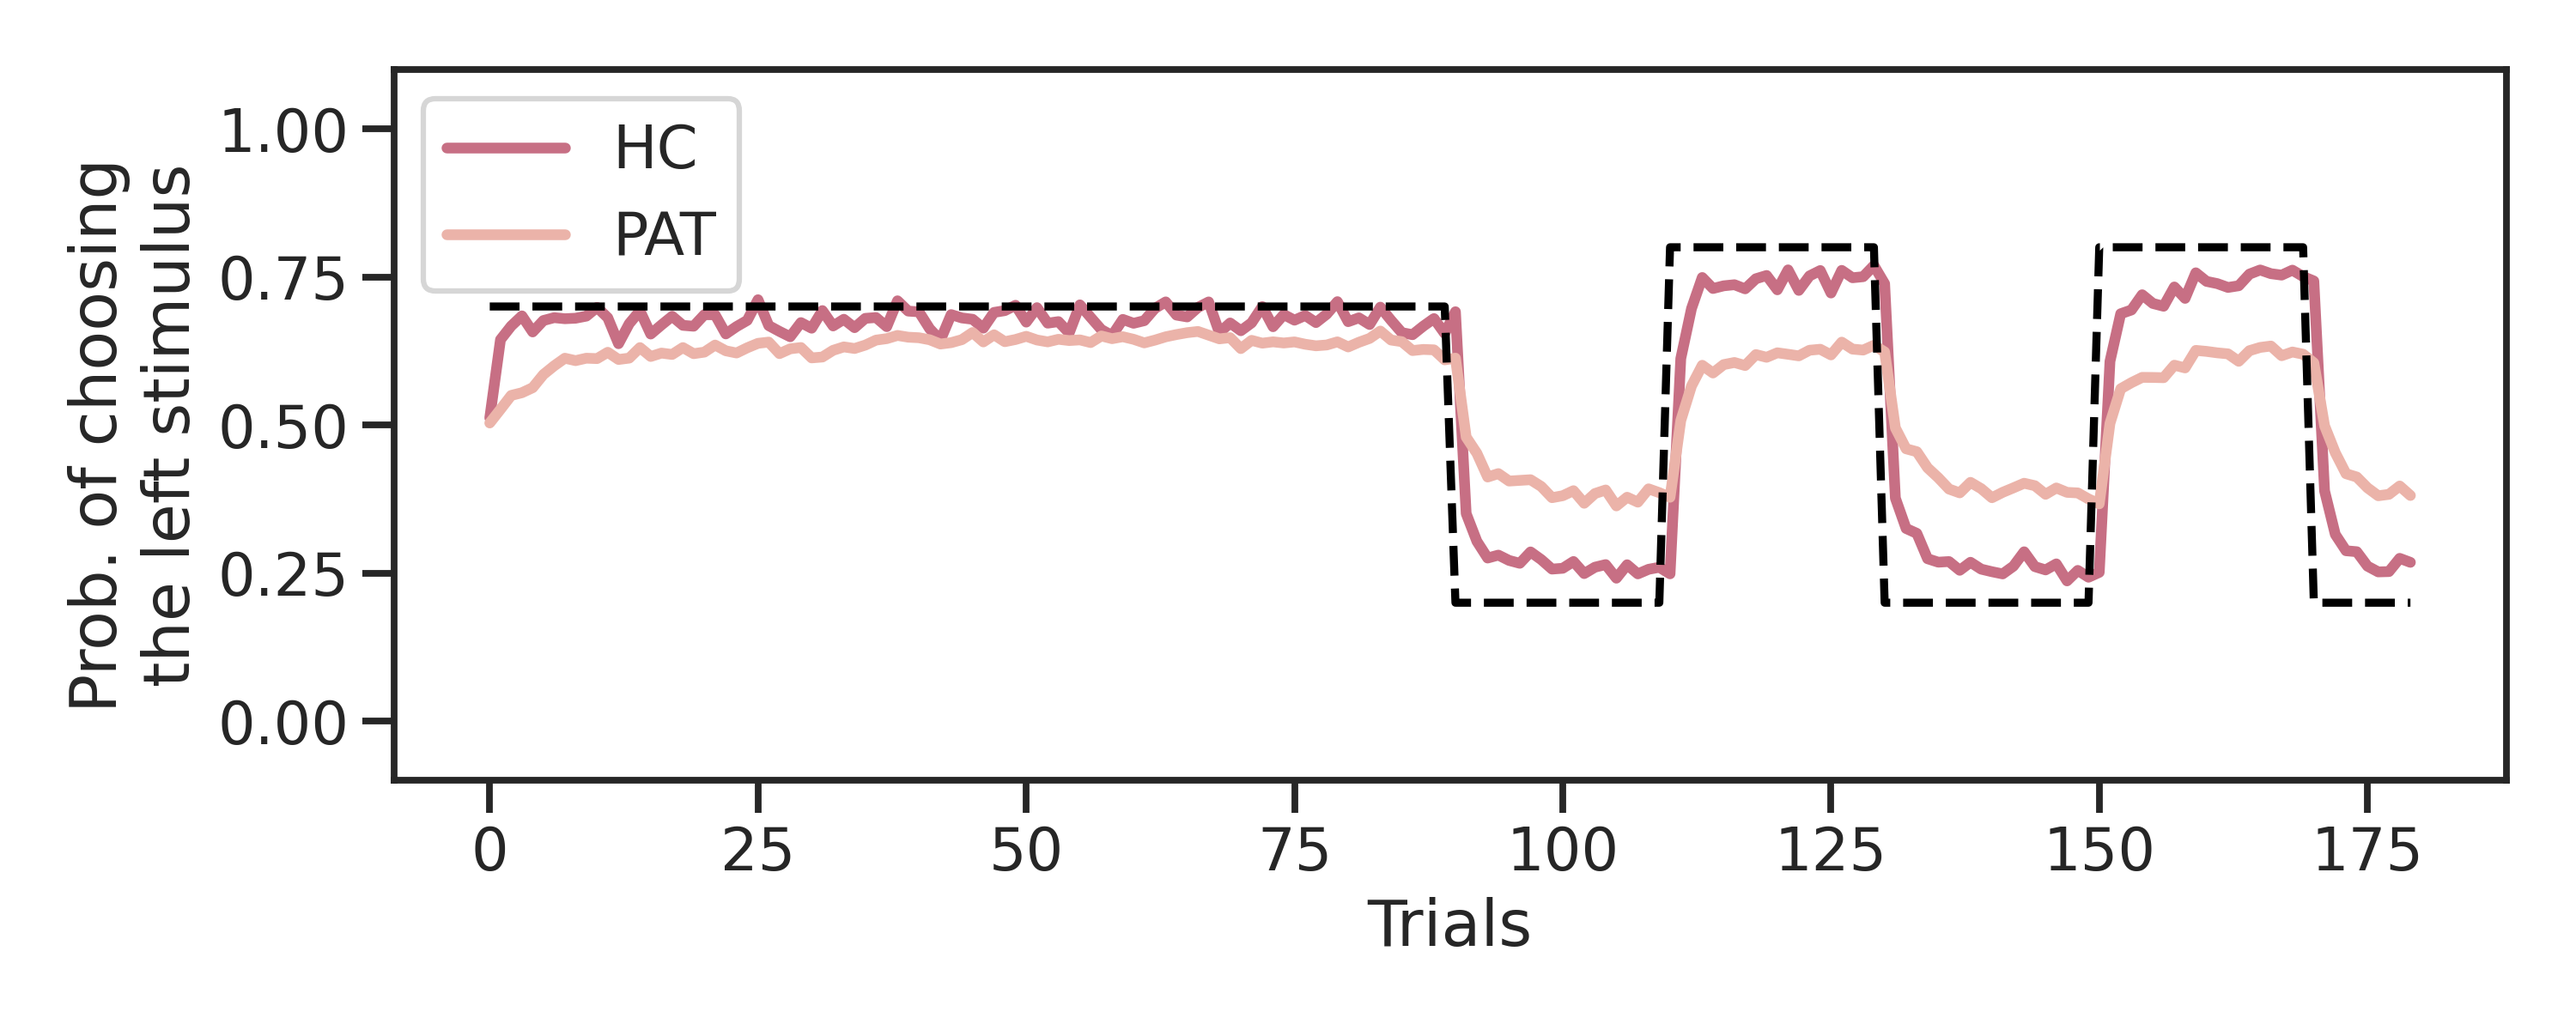
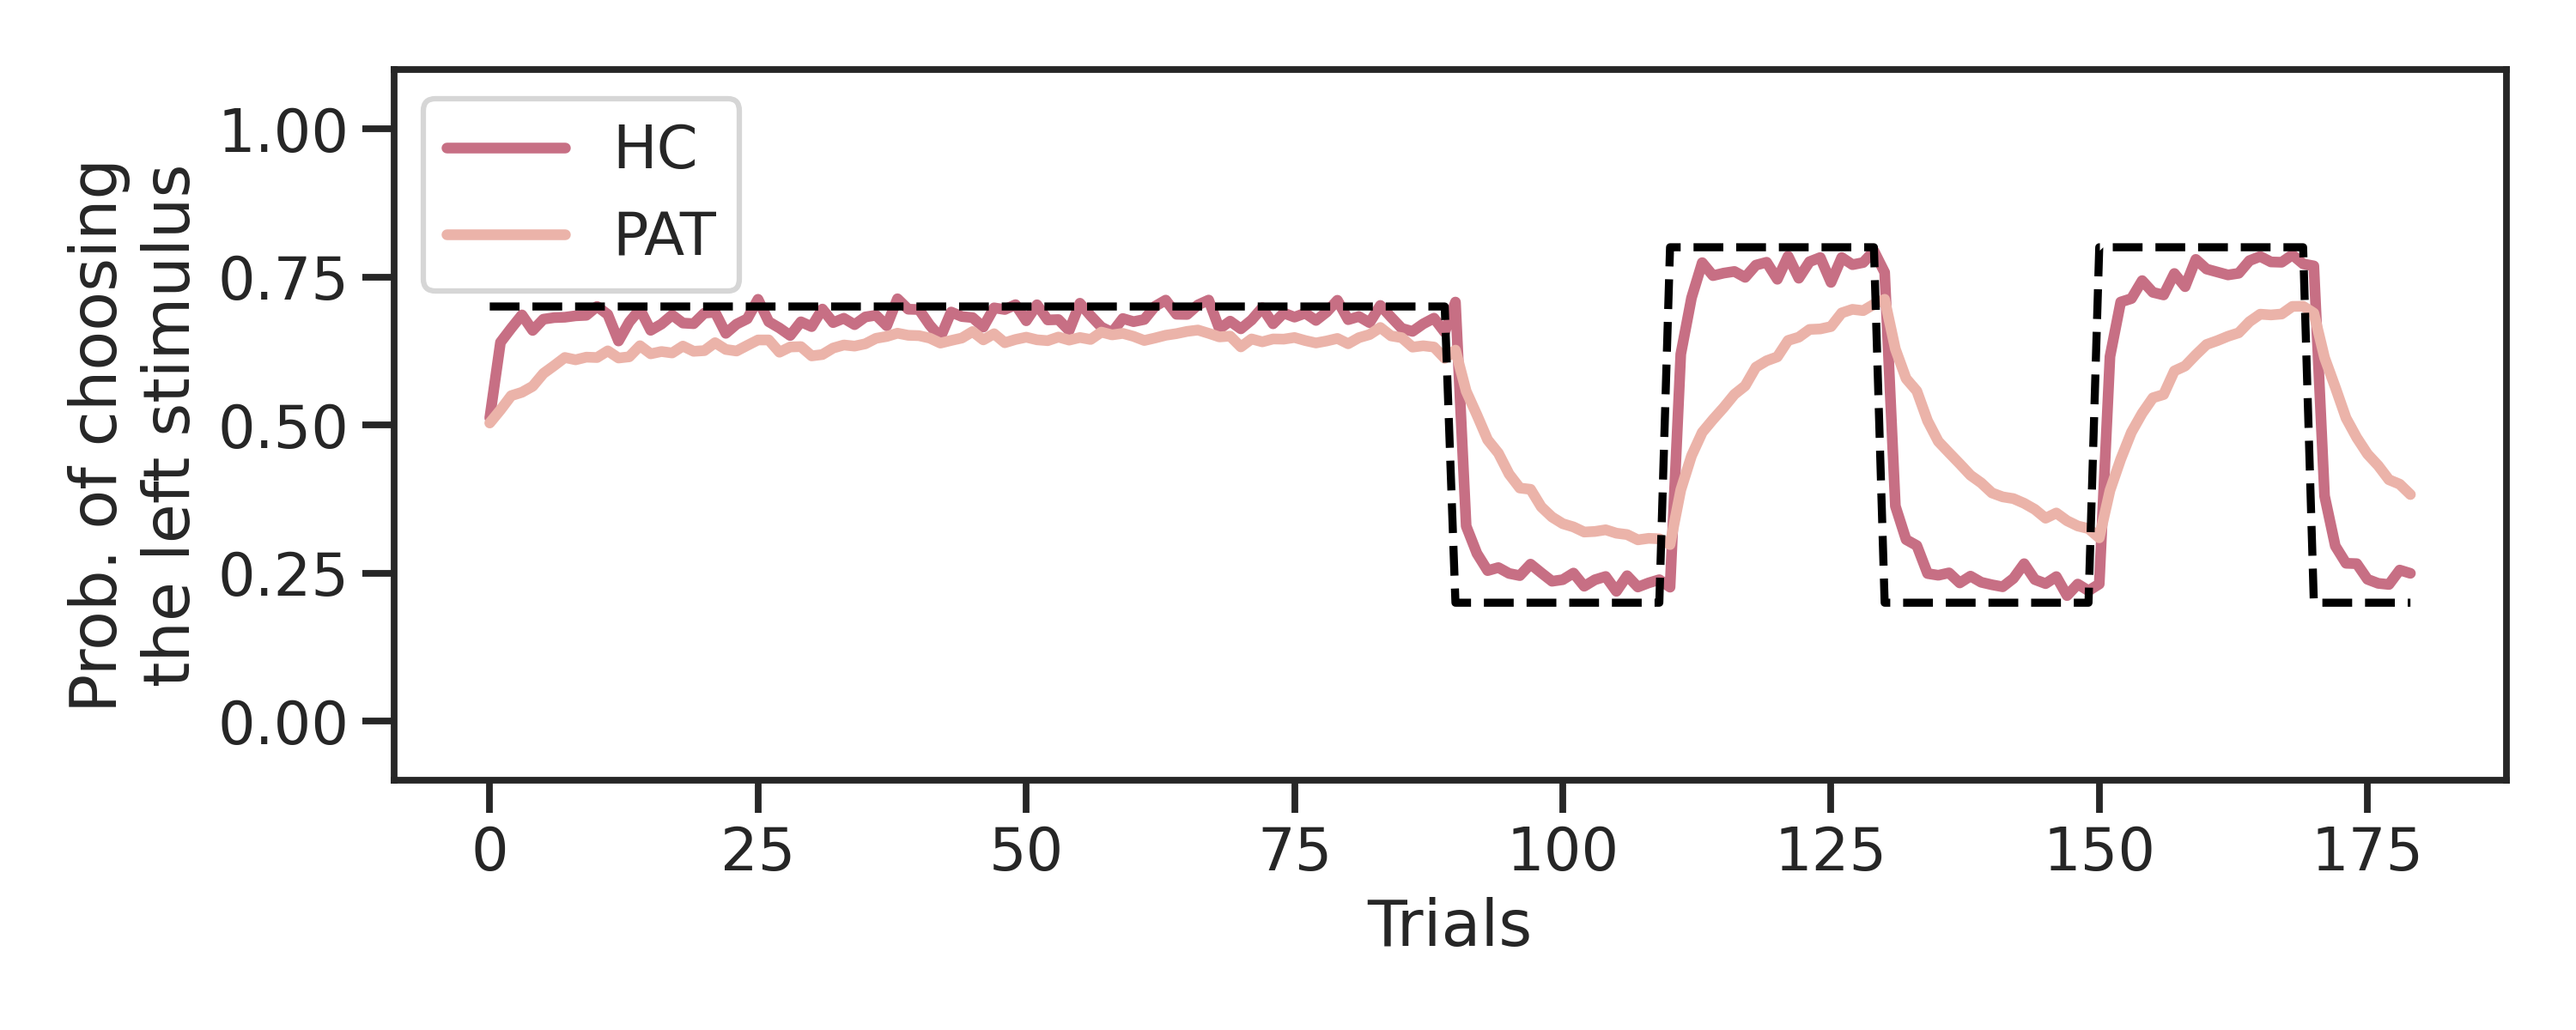
update figure

diff --git a/m2_simulate.py b/m2_simulate.py
@@ -134,8 +134,8 @@ def sim_subj(mode, seed, n_samples=3):
     n_params = 18
     fname    = f'{path}/fits/{args.data_set}/MixPol/params-{args.data_set}-{sub_id}-map.csv'      
     params   = pd.read_csv(fname, index_col=0).iloc[0, 0:n_params].values
-    params[:3] = [3.9758, 9.5894, 4.4965]
-    params[10] = 4.3274
+    params[:3] = [3.9758, 9.5894, 4]
+    params[10:14] = params[2:6]
         
     rng    = np.random.RandomState(seed)
     
